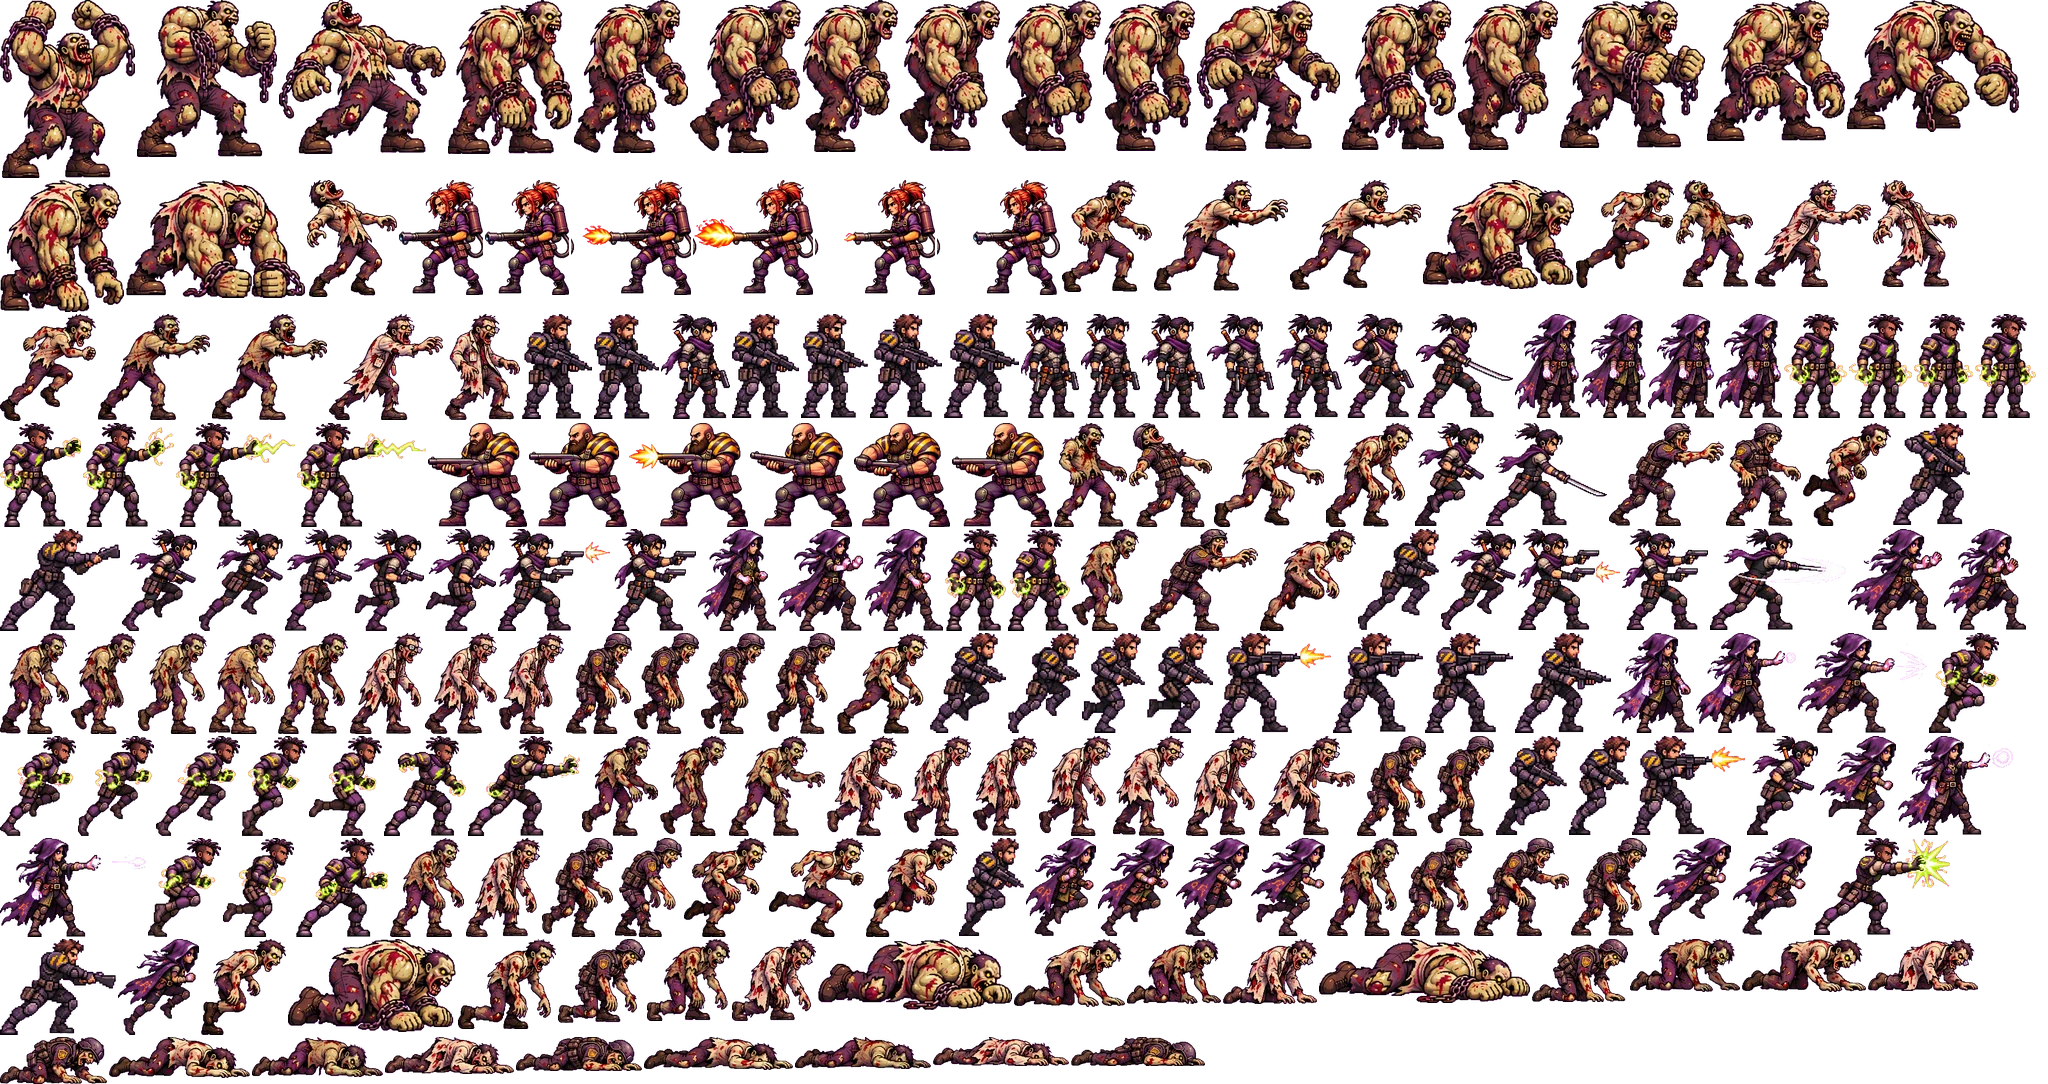
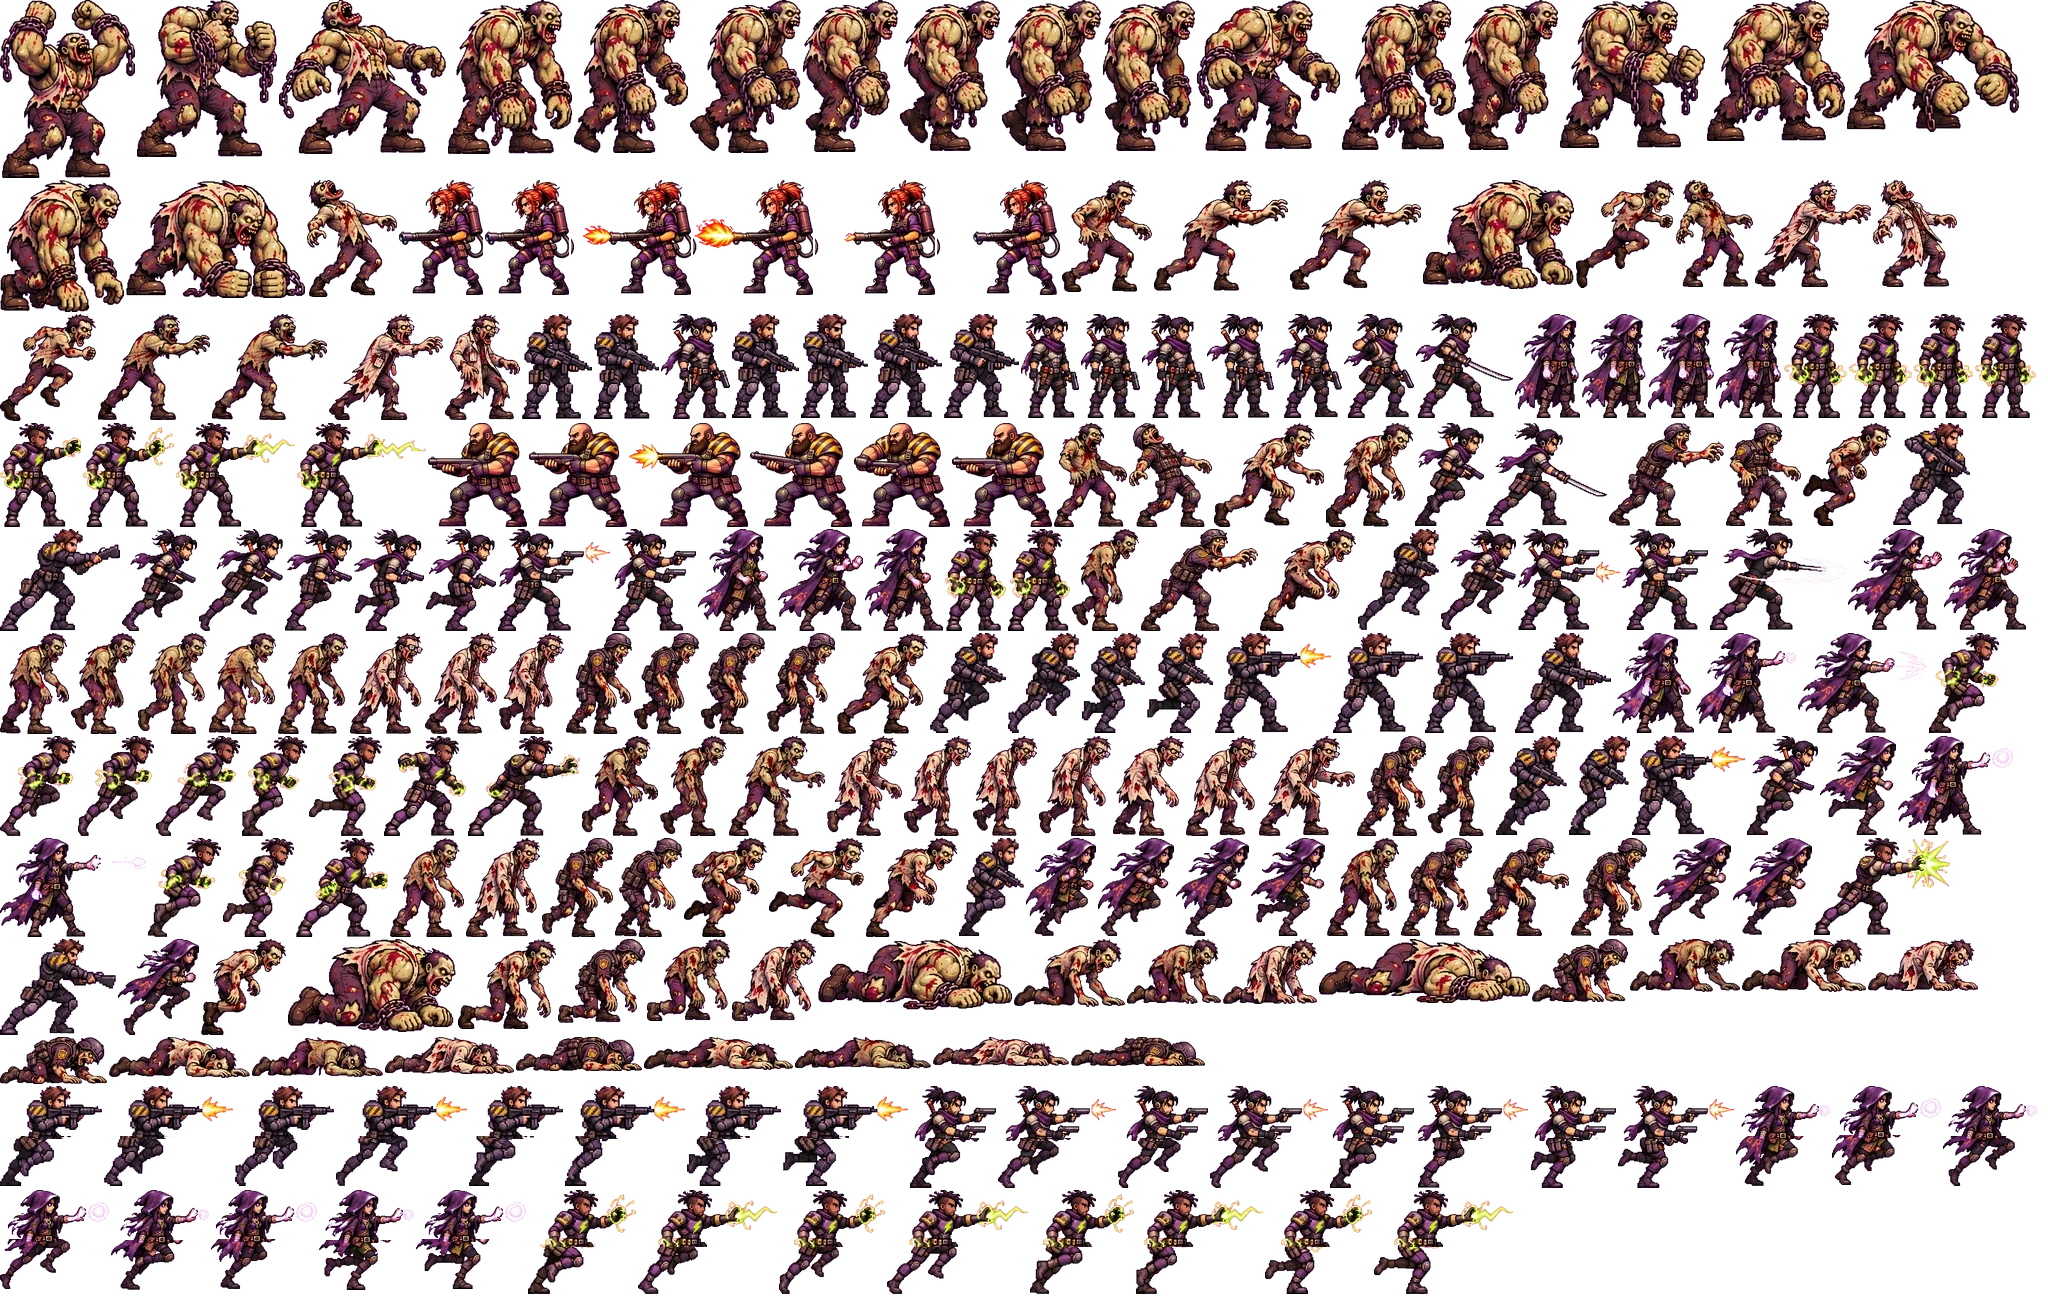
Run-and-gun: baked rshoot frames (run legs + shoot torso joined at belt)
Claude-Session: https://claude.ai/code/session_011TPi5fyk4GLuTR427GHKeK

diff --git a/game.js b/game.js
@@ -1332,9 +1332,9 @@ addEventListener('keyup',e=>{if(state!=='side'||!R.side.keys)return;const S=R.si
 
 /* ---------- drawing ---------- */
 const SH=95;
-const SIDEM={"cmd": {"idle": [[522, 314, 70, 105, 29.4, 35.1], [732, 314, 67, 104, 27.7, 31.6], [594, 314, 65, 105, 27.2, 29.3], [801, 314, 67, 104, 26.9, 29.9]], "run": [[1496, 736, 71, 99, 13.9, 48.4], [930, 633, 76, 100, 18.8, 52.7], [1008, 633, 72, 100, 7.3, 56.6], [1358, 529, 81, 101, 30.3, 65.3], [959, 838, 65, 98, 9.8, 44.9], [1569, 736, 61, 99, 10.5, 46.0], [1082, 633, 63, 100, 16.4, 43.6], [1147, 633, 66, 100, 33.3, 44.4]], "shoot": [[1215, 633, 116, 100, 36.0, 41.4], [1333, 633, 90, 100, 36.0, 42.2], [1632, 736, 113, 99, 35.7, 40.1], [1425, 633, 88, 100, 35.0, 38.6]], "melee": [[870, 314, 72, 104, 30.8, 37.4], [1893, 423, 77, 102, 34.5, 48.7], [0, 529, 120, 102, 37.2, 66.4], [0, 939, 116, 96, 37.0, 67.4], [1515, 633, 96, 100, 34.0, 53.3], [944, 314, 75, 104, 31.8, 38.7]]}, "rook": {"idle": [[1021, 314, 58, 104, 30.0, 26.2], [1081, 314, 59, 104, 30.0, 26.8], [1142, 314, 63, 104, 34.1, 30.6], [1207, 314, 67, 104, 38.5, 34.6]], "run": [[1415, 423, 69, 103, 12.1, 45.2], [122, 529, 75, 102, 20.1, 52.0], [1441, 529, 75, 101, 7.3, 52.5], [199, 529, 84, 102, 7.5, 59.9], [1747, 736, 71, 99, 10.2, 47.7], [285, 529, 67, 102, 10.4, 42.6], [354, 529, 70, 102, 22.0, 42.5], [426, 529, 70, 102, 30.0, 43.6]], "shoot": [[498, 529, 112, 102, 36.0, 33.5], [612, 529, 84, 102, 35.3, 31.5], [1518, 529, 102, 101, 35.6, 27.4], [1622, 529, 86, 101, 39.7, 29.9]], "melee": [[1276, 314, 66, 104, 34.8, 34.3], [1344, 314, 70, 104, 34.1, 35.8], [1416, 314, 97, 104, 39.4, 38.5], [1710, 529, 136, 101, 41.1, 59.8], [1486, 423, 121, 103, 40.1, 52.5], [661, 314, 69, 105, 38.2, 34.0]]}, "hex": {"idle": [[1515, 314, 65, 104, 33.6, 43.0], [1582, 314, 64, 104, 33.9, 42.6], [1648, 314, 66, 104, 32.7, 43.8], [1716, 314, 66, 104, 34.1, 43.4]], "run": [[1026, 838, 70, 98, 21.8, 51.5], [1098, 838, 76, 98, 21.0, 56.8], [118, 939, 81, 96, 12.1, 61.9], [1649, 838, 82, 97, 6.5, 61.8], [1733, 838, 79, 97, 19.1, 59.9], [1176, 838, 73, 98, 19.1, 54.3], [1251, 838, 74, 98, 26.6, 55.4], [1820, 736, 76, 99, 46.4, 56.9]], "shoot": [[1613, 633, 81, 100, 44.7, 46.7], [1696, 633, 100, 100, 41.1, 45.8], [1898, 736, 115, 99, 41.8, 49.7], [0, 838, 146, 99, 43.1, 49.9]], "melee": [[698, 529, 78, 102, 42.3, 46.1], [778, 529, 85, 102, 42.3, 52.7], [1848, 529, 94, 101, 53.7, 56.1], [1798, 633, 129, 100, 53.2, 54.1], [1944, 529, 82, 101, 48.9, 48.6], [865, 529, 78, 102, 41.4, 42.4]]}, "volt": {"idle": [[1784, 314, 63, 104, 32.4, 37.1], [1849, 314, 63, 104, 32.9, 37.1], [1914, 314, 59, 104, 29.5, 33.6], [1975, 314, 61, 104, 30.7, 34.1]], "run": [[1929, 633, 70, 100, 13.3, 53.0], [0, 736, 76, 100, 9.9, 59.8], [78, 736, 76, 100, 6.8, 60.2], [156, 736, 84, 100, 8.2, 67.8], [148, 838, 73, 99, 9.2, 55.6], [242, 736, 65, 100, 10.2, 48.4], [223, 838, 71, 99, 32.2, 54.7], [309, 736, 73, 100, 42.3, 55.6]], "shoot": [[0, 423, 81, 104, 34.6, 37.5], [83, 423, 91, 104, 34.1, 43.0], [176, 423, 119, 104, 34.3, 42.6], [297, 423, 129, 104, 34.3, 39.1]], "melee": [[945, 529, 61, 102, 28.5, 36.1], [384, 736, 82, 100, 34.8, 58.6], [468, 736, 112, 100, 37.2, 67.7], [1814, 838, 136, 97, 38.0, 84.1], [296, 838, 92, 99, 36.8, 61.5], [1008, 529, 62, 102, 29.7, 36.7]]}, "bb": {"bruno": [[428, 423, 99, 104, 54.8, 58.1], [529, 423, 98, 104, 53.5, 56.6], [629, 423, 119, 104, 75.2, 78.2], [750, 423, 102, 104, 57.6, 58.7], [854, 423, 96, 104, 51.8, 50.7], [952, 423, 100, 104, 55.8, 58.4]], "blaze": [[399, 180, 84, 115, 48.5, 54.9], [485, 180, 84, 115, 48.5, 55.0], [571, 180, 120, 115, 84.6, 91.1], [693, 180, 120, 115, 85.3, 91.6], [815, 180, 120, 115, 84.8, 91.4], [937, 180, 123, 115, 84.8, 91.5]]}, "grunt": {"walk": [[390, 838, 74, 99, 31.2, 54.8], [0, 633, 69, 101, 26.6, 51.6], [582, 736, 76, 100, 28.1, 53.9], [71, 633, 65, 101, 24.9, 49.1], [660, 736, 67, 100, 28.6, 51.4], [1072, 529, 67, 102, 25.6, 51.0], [138, 633, 69, 101, 29.4, 53.4], [209, 633, 67, 101, 24.1, 52.1]], "attack": [[278, 633, 70, 101, 29.6, 54.1], [729, 736, 96, 100, 35.2, 61.8], [98, 314, 112, 106, 39.2, 68.8], [212, 314, 115, 106, 36.9, 70.6]], "hit": [[1054, 423, 73, 104, 35.2, 36.5], [1676, 180, 77, 107, 39.9, 21.6]], "death": [[1327, 838, 72, 98, 31.4, 56.8], [647, 939, 83, 82, 39.2, 64.1], [1127, 939, 94, 65, 47.5, 71.4], [1630, 939, 110, 53, 55.0, 71.9], [252, 1037, 131, 40, 65.6, 67.6], [795, 1037, 136, 32, 68.1, 70.6]]}, "sci": {"walk": [[350, 633, 73, 101, 30.4, 57.9], [425, 633, 72, 101, 28.4, 56.9], [827, 736, 75, 100, 27.2, 55.4], [499, 633, 65, 101, 23.5, 51.0], [904, 736, 67, 100, 28.4, 52.8], [973, 736, 64, 100, 24.0, 50.0], [1039, 736, 72, 100, 28.7, 55.5], [1113, 736, 71, 100, 26.0, 55.5]], "attack": [[1186, 736, 71, 100, 29.9, 56.0], [1259, 736, 96, 100, 35.0, 65.6], [329, 314, 114, 106, 39.2, 71.5], [1755, 180, 116, 107, 36.8, 68.6]], "hit": [[445, 314, 75, 106, 34.8, 40.7], [1873, 180, 84, 107, 42.9, 23.6]], "death": [[466, 838, 74, 99, 30.9, 59.4], [732, 939, 84, 82, 39.0, 64.4], [1223, 939, 94, 65, 47.3, 74.5], [1868, 939, 110, 52, 55.1, 78.7], [385, 1037, 129, 37, 64.7, 65.3], [933, 1037, 136, 29, 68.1, 68.9]]}, "sol": {"walk": [[1357, 736, 69, 100, 30.2, 55.4], [566, 633, 66, 101, 25.9, 52.0], [542, 838, 71, 99, 27.1, 56.4], [634, 633, 65, 101, 25.2, 50.4], [1428, 736, 66, 100, 28.3, 51.2], [701, 633, 64, 101, 22.8, 49.1], [767, 633, 68, 101, 29.2, 53.6], [615, 838, 67, 99, 23.8, 52.0]], "attack": [[1401, 838, 71, 98, 29.7, 56.3], [1474, 838, 95, 98, 34.2, 64.7], [1141, 529, 117, 102, 39.4, 73.3], [1609, 423, 115, 103, 36.3, 69.0]], "hit": [[1726, 423, 75, 103, 33.3, 41.9], [1129, 423, 83, 104, 41.6, 18.4]], "death": [[1571, 838, 76, 98, 31.1, 60.5], [558, 939, 87, 84, 39.0, 69.1], [1532, 939, 96, 63, 46.8, 74.9], [0, 1037, 107, 47, 53.7, 70.5], [516, 1037, 126, 34, 63.2, 72.2], [1071, 1037, 134, 29, 67.2, 74.3]]}, "runner": {"walk": [[684, 838, 83, 99, 30.1, 63.9], [0, 314, 96, 107, 30.1, 74.8], [1576, 180, 98, 108, 6.5, 75.7], [769, 838, 95, 99, 54.0, 75.9], [1803, 423, 88, 103, 21.0, 70.6], [866, 838, 91, 99, 11.8, 70.0], [1260, 529, 96, 102, 12.1, 76.8], [201, 939, 85, 96, 11.6, 65.0]], "attack": [[837, 633, 91, 101, 36.3, 73.7], [1214, 423, 110, 104, 38.2, 84.4], [1290, 180, 131, 110, 39.0, 84.6], [1154, 180, 134, 111, 42.7, 83.8]], "hit": [[1062, 180, 90, 112, 37.9, 58.5], [307, 180, 90, 117, 35.5, 18.8]], "death": [[1326, 423, 87, 104, 31.5, 68.1], [458, 939, 98, 90, 46.0, 81.4], [1014, 939, 111, 68, 55.9, 85.3], [1742, 939, 124, 53, 62.1, 82.3], [109, 1037, 141, 41, 70.7, 69.1], [644, 1037, 149, 33, 74.7, 78.0]]}, "brute": {"walk": [[1342, 0, 114, 150, 51.2, 72.3], [574, 0, 114, 153, 40.9, 70.1], [690, 0, 111, 153, 40.5, 75.2], [803, 0, 95, 152, 30.2, 59.6], [1458, 0, 100, 150, 37.3, 63.9], [900, 0, 100, 151, 39.5, 63.1], [1002, 0, 99, 151, 35.9, 61.9], [1103, 0, 92, 151, 34.8, 55.8]], "attack": [[1707, 0, 138, 141, 59.7, 80.0], [1560, 0, 145, 148, 60.8, 74.2], [137, 0, 140, 157, 62.9, 68.6], [0, 0, 135, 178, 56.5, 68.5], [1847, 0, 172, 132, 84.6, 84.7], [126, 180, 179, 118, 89.9, 95.4]], "hit": [[1197, 0, 143, 151, 61.8, 77.4], [279, 0, 167, 154, 83.5, 62.0]], "death": [[448, 0, 124, 154, 53.3, 75.7], [0, 180, 124, 132, 62.2, 76.7], [1423, 180, 151, 109, 75.4, 94.6], [288, 939, 168, 93, 83.2, 101.2], [818, 939, 194, 71, 97.4, 106.6], [1319, 939, 211, 64, 105.6, 108.8]]}},SIDEIMG=new Image();let sideReady=false;SIDEIMG.onload=()=>{sideReady=true;};
+const SIDEM={"cmd":{"idle":[[522,314,70,105,29.4,35.1],[732,314,67,104,27.7,31.6],[594,314,65,105,27.2,29.3],[801,314,67,104,26.9,29.9]],"run":[[1496,736,71,99,13.9,48.4],[930,633,76,100,18.8,52.7],[1008,633,72,100,7.3,56.6],[1358,529,81,101,30.3,65.3],[959,838,65,98,9.8,44.9],[1569,736,61,99,10.5,46.0],[1082,633,63,100,16.4,43.6],[1147,633,66,100,33.3,44.4]],"shoot":[[1215,633,116,100,36.0,41.4],[1333,633,90,100,36.0,42.2],[1632,736,113,99,35.7,40.1],[1425,633,88,100,35.0,38.6]],"melee":[[870,314,72,104,30.8,37.4],[1893,423,77,102,34.5,48.7],[0,529,120,102,37.2,66.4],[0,939,116,96,37.0,67.4],[1515,633,96,100,34.0,53.3],[944,314,75,104,31.8,38.7]],"rshoot":[[0,1086,102,100,14,51.0,34.0,0],[104,1086,129,100,19,71.5,30.0,0],[235,1086,99,100,7,48.0,38.0,0],[336,1086,131,100,30,73.5,21.0,0],[469,1086,94,100,10,43.0,30.0,0],[565,1086,120,100,10,62.5,30.0,0],[687,1086,94,100,16,43.0,24.0,0],[783,1086,125,100,33,67.5,12.0,0]]},"rook":{"idle":[[1021,314,58,104,30.0,26.2],[1081,314,59,104,30.0,26.8],[1142,314,63,104,34.1,30.6],[1207,314,67,104,38.5,34.6]],"run":[[1415,423,69,103,12.1,45.2],[122,529,75,102,20.1,52.0],[1441,529,75,101,7.3,52.5],[199,529,84,102,7.5,59.9],[1747,736,71,99,10.2,47.7],[285,529,67,102,10.4,42.6],[354,529,70,102,22.0,42.5],[426,529,70,102,30.0,43.6]],"shoot":[[498,529,112,102,36.0,33.5],[612,529,84,102,35.3,31.5],[1518,529,102,101,35.6,27.4],[1622,529,86,101,39.7,29.9]],"melee":[[1276,314,66,104,34.8,34.3],[1344,314,70,104,34.1,35.8],[1416,314,97,104,39.4,38.5],[1710,529,136,101,41.1,59.8],[1486,423,121,103,40.1,52.5],[661,314,69,105,38.2,34.0]],"rshoot":[[910,1086,86,102,12,33.5,25.299999999999997,0],[998,1086,118,102,20,58.5,22.0,0],[1118,1086,90,102,7,37.5,34.30000000000001,0],[1210,1086,118,102,8,58.5,34.0,0],[1330,1086,84,102,10,31.5,25.299999999999997,0],[1416,1086,112,102,12,52.5,24.0,0],[1530,1086,86,102,22,33.5,15.299999999999997,0],[1618,1086,116,102,30,56.5,10.0,0]]},"hex":{"idle":[[1515,314,65,104,33.6,43.0],[1582,314,64,104,33.9,42.6],[1648,314,66,104,32.7,43.8],[1716,314,66,104,34.1,43.4]],"run":[[1026,838,70,98,21.8,51.5],[1098,838,76,98,21.0,56.8],[118,939,81,96,12.1,61.9],[1649,838,82,97,6.5,61.8],[1733,838,79,97,19.1,59.9],[1176,838,73,98,19.1,54.3],[1251,838,74,98,26.6,55.4],[1820,736,76,99,46.4,56.9]],"shoot":[[1613,633,81,100,44.7,46.7],[1696,633,100,100,41.1,45.8],[1898,736,115,99,41.8,49.7],[0,838,146,99,43.1,49.9]],"melee":[[698,529,78,102,42.3,46.1],[778,529,85,102,42.3,52.7],[1848,529,94,101,53.7,56.1],[1798,633,129,100,53.2,54.1],[1944,529,82,101,48.9,48.6],[865,529,78,102,41.4,42.4]],"rshoot":[[1736,1086,94,100,22,38.0,13.099999999999994,0],[1832,1086,109,99,21,62.5,14.799999999999997,0],[1943,1086,94,100,12,38.0,23.099999999999994,0],[0,1190,109,99,6,62.5,29.80000000000001,0],[111,1190,98,100,19,42.0,20.099999999999994,0],[211,1190,106,99,19,59.5,13.799999999999997,0],[319,1190,95,100,27,39.0,9.099999999999994,0],[416,1190,110,99,46,63.5,-9.200000000000003,0]]},"volt":{"idle":[[1784,314,63,104,32.4,37.1],[1849,314,63,104,32.9,37.1],[1914,314,59,104,29.5,33.6],[1975,314,61,104,30.7,34.1]],"run":[[1929,633,70,100,13.3,53.0],[0,736,76,100,9.9,59.8],[78,736,76,100,6.8,60.2],[156,736,84,100,8.2,67.8],[148,838,73,99,9.2,55.6],[242,736,65,100,10.2,48.4],[223,838,71,99,32.2,54.7],[309,736,73,100,42.3,55.6]],"shoot":[[0,423,81,104,34.6,37.5],[83,423,91,104,34.1,43.0],[176,423,119,104,34.3,42.6],[297,423,129,104,34.3,39.1]],"melee":[[945,529,61,102,28.5,36.1],[384,736,82,100,34.8,58.6],[468,736,112,100,37.2,67.7],[1814,838,136,97,38.0,84.1],[296,838,92,99,36.8,61.5],[1008,529,62,102,29.7,36.7]],"rshoot":[[528,1190,108,104,13,71.0,38.099999999999994,0],[638,1190,139,104,10,77.5,44.30000000000001,0],[779,1190,106,104,7,69.0,42.099999999999994,0],[887,1190,141,104,8,79.5,48.30000000000001,0],[1030,1190,104,104,9,67.0,38.099999999999994,0],[1136,1190,127,104,10,65.5,32.30000000000001,0],[1265,1190,107,104,32,70.0,18.099999999999994,0],[1374,1190,139,104,42,77.5,12.299999999999997,0]]},"bb":{"bruno":[[428,423,99,104,54.8,58.1],[529,423,98,104,53.5,56.6],[629,423,119,104,75.2,78.2],[750,423,102,104,57.6,58.7],[854,423,96,104,51.8,50.7],[952,423,100,104,55.8,58.4]],"blaze":[[399,180,84,115,48.5,54.9],[485,180,84,115,48.5,55.0],[571,180,120,115,84.6,91.1],[693,180,120,115,85.3,91.6],[815,180,120,115,84.8,91.4],[937,180,123,115,84.8,91.5]]},"grunt":{"walk":[[390,838,74,99,31.2,54.8],[0,633,69,101,26.6,51.6],[582,736,76,100,28.1,53.9],[71,633,65,101,24.9,49.1],[660,736,67,100,28.6,51.4],[1072,529,67,102,25.6,51.0],[138,633,69,101,29.4,53.4],[209,633,67,101,24.1,52.1]],"attack":[[278,633,70,101,29.6,54.1],[729,736,96,100,35.2,61.8],[98,314,112,106,39.2,68.8],[212,314,115,106,36.9,70.6]],"hit":[[1054,423,73,104,35.2,36.5],[1676,180,77,107,39.9,21.6]],"death":[[1327,838,72,98,31.4,56.8],[647,939,83,82,39.2,64.1],[1127,939,94,65,47.5,71.4],[1630,939,110,53,55.0,71.9],[252,1037,131,40,65.6,67.6],[795,1037,136,32,68.1,70.6]]},"sci":{"walk":[[350,633,73,101,30.4,57.9],[425,633,72,101,28.4,56.9],[827,736,75,100,27.2,55.4],[499,633,65,101,23.5,51.0],[904,736,67,100,28.4,52.8],[973,736,64,100,24.0,50.0],[1039,736,72,100,28.7,55.5],[1113,736,71,100,26.0,55.5]],"attack":[[1186,736,71,100,29.9,56.0],[1259,736,96,100,35.0,65.6],[329,314,114,106,39.2,71.5],[1755,180,116,107,36.8,68.6]],"hit":[[445,314,75,106,34.8,40.7],[1873,180,84,107,42.9,23.6]],"death":[[466,838,74,99,30.9,59.4],[732,939,84,82,39.0,64.4],[1223,939,94,65,47.3,74.5],[1868,939,110,52,55.1,78.7],[385,1037,129,37,64.7,65.3],[933,1037,136,29,68.1,68.9]]},"sol":{"walk":[[1357,736,69,100,30.2,55.4],[566,633,66,101,25.9,52.0],[542,838,71,99,27.1,56.4],[634,633,65,101,25.2,50.4],[1428,736,66,100,28.3,51.2],[701,633,64,101,22.8,49.1],[767,633,68,101,29.2,53.6],[615,838,67,99,23.8,52.0]],"attack":[[1401,838,71,98,29.7,56.3],[1474,838,95,98,34.2,64.7],[1141,529,117,102,39.4,73.3],[1609,423,115,103,36.3,69.0]],"hit":[[1726,423,75,103,33.3,41.9],[1129,423,83,104,41.6,18.4]],"death":[[1571,838,76,98,31.1,60.5],[558,939,87,84,39.0,69.1],[1532,939,96,63,46.8,74.9],[0,1037,107,47,53.7,70.5],[516,1037,126,34,63.2,72.2],[1071,1037,134,29,67.2,74.3]]},"runner":{"walk":[[684,838,83,99,30.1,63.9],[0,314,96,107,30.1,74.8],[1576,180,98,108,6.5,75.7],[769,838,95,99,54.0,75.9],[1803,423,88,103,21.0,70.6],[866,838,91,99,11.8,70.0],[1260,529,96,102,12.1,76.8],[201,939,85,96,11.6,65.0]],"attack":[[837,633,91,101,36.3,73.7],[1214,423,110,104,38.2,84.4],[1290,180,131,110,39.0,84.6],[1154,180,134,111,42.7,83.8]],"hit":[[1062,180,90,112,37.9,58.5],[307,180,90,117,35.5,18.8]],"death":[[1326,423,87,104,31.5,68.1],[458,939,98,90,46.0,81.4],[1014,939,111,68,55.9,85.3],[1742,939,124,53,62.1,82.3],[109,1037,141,41,70.7,69.1],[644,1037,149,33,74.7,78.0]]},"brute":{"walk":[[1342,0,114,150,51.2,72.3],[574,0,114,153,40.9,70.1],[690,0,111,153,40.5,75.2],[803,0,95,152,30.2,59.6],[1458,0,100,150,37.3,63.9],[900,0,100,151,39.5,63.1],[1002,0,99,151,35.9,61.9],[1103,0,92,151,34.8,55.8]],"attack":[[1707,0,138,141,59.7,80.0],[1560,0,145,148,60.8,74.2],[137,0,140,157,62.9,68.6],[0,0,135,178,56.5,68.5],[1847,0,172,132,84.6,84.7],[126,180,179,118,89.9,95.4]],"hit":[[1197,0,143,151,61.8,77.4],[279,0,167,154,83.5,62.0]],"death":[[448,0,124,154,53.3,75.7],[0,180,124,132,62.2,76.7],[1423,180,151,109,75.4,94.6],[288,939,168,93,83.2,101.2],[818,939,194,71,97.4,106.6],[1319,939,211,64,105.6,108.8]]}},SIDEIMG=new Image();let sideReady=false;SIDEIMG.onload=()=>{sideReady=true;};
 const INPM={"labOpen": [0, 0, 148, 144], "debris": [150, 0, 227, 142], "exit": [379, 0, 111, 141], "lab": [492, 0, 139, 141], "elev": [633, 0, 147, 140], "dblOpen": [782, 0, 151, 111], "fire": [935, 0, 124, 111], "dbl": [1061, 0, 135, 110], "bar": [1198, 0, 245, 107], "bench": [1445, 0, 204, 97]},INP=new Image(),INW=new Image(),INF=new Image();let inReady=0;[INP,INW,INF].forEach(i=>i.onload=()=>{inReady++;});
-function sideLoad(){if(SIDEIMG.src||!'assets/side.webp?v=8f9557c054')return;SIDEIMG.src='assets/side.webp?v=8f9557c054';INP.src='assets/inprops.webp?v=d6d2aabdb1';INW.src='assets/inwall.webp?v=1f8e087191';INF.src='assets/infloor.webp?v=59231b8782';}
+function sideLoad(){if(SIDEIMG.src||!'assets/side.webp?v=354b89819c')return;SIDEIMG.src='assets/side.webp?v=354b89819c';INP.src='assets/inprops.webp?v=d6d2aabdb1';INW.src='assets/inwall.webp?v=1f8e087191';INF.src='assets/infloor.webp?v=59231b8782';}
 const SK=122/104;
 function sd(id,row,i,x,flip,alpha){const L=SIDEM[id]&&SIDEM[id][row];if(!sideReady||!L)return false;const f=L[((i%L.length)+L.length)%L.length],w=f[2]*SK,h=f[3]*SK;
   ctx.save();ctx.globalAlpha=alpha==null?1:alpha;ctx.translate(x,GY+2);if(flip)ctx.scale(-1,1);ctx.drawImage(SIDEIMG,f[0],f[1],f[2],f[3],-f[4]*SK,-h,w,h);ctx.restore();return true;}
@@ -1418,10 +1418,7 @@ function drawSide(){const S=R.side;ctx.save();if(R.shake>0)ctx.translate((Math.r
   const id=S.active,M=META[id],px=S.x-c;
   ctx.fillStyle='rgba(0,0,0,.4)';ctx.beginPath();ctx.ellipse(px,GY,24,6,0,0,6.283);ctx.fill();
   const pa=S.entering?Math.max(0,S.exitT/.9):(S.flash>0?.6:1);
-  if(NEW&&S.anT>0&&S.mv&&!(S.melA>0)&&SIDEM[id]){const RN=SIDEM[id].run,SH_=SIDEM[id].shoot,fi=Math.floor(t*12),fr_=RN[fi%RN.length],si=fi%2?1:3,fs=SH_[si],fl=S.face<0?-1:1;
-    const off=((fr_[5]-fr_[4])-(fs[5]-fs[4]))*SK*fl,dy=(fs[3]-fr_[3])*SK;S.rgOff=off;const waist=GY+2-fr_[3]*.5*SK;
-    ctx.save();ctx.beginPath();ctx.rect(px-140,waist,280,200);ctx.clip();sd(id,'run',fi,px,S.face<0,pa);ctx.restore();
-    ctx.save();ctx.beginPath();ctx.rect(px-160,0,320,waist+3);ctx.clip();ctx.translate(0,dy);sd(id,'shoot',si,px+off,S.face<0,pa);ctx.restore();}
+  if(NEW&&S.anT>0&&S.mv&&!(S.melA>0)&&SIDEM[id]&&SIDEM[id].rshoot){const RS=SIDEM[id].rshoot,fi=Math.floor(t*12),f=RS[fi%RS.length];S.rgOff=(f[6]||0)*SK*(S.face<0?-1:1);sd(id,'rshoot',fi,px,S.face<0,pa);}
   else if(NEW){const row=S.melA>0?'melee':S.anT>0?'shoot':S.mv?'run':'idle',fr=row==='melee'?Math.min(5,Math.floor((.35-S.melA)/.35*6)):row==='shoot'?Math.floor(t*12):row==='run'?Math.floor(t*12):Math.floor(t*6);sd(id,row,fr,px,S.face<0,pa);}
   else if(atlasReady&&M){let arr=M.idle,fr=Math.floor(t*6);if(S.melA>0&&id==='rook'&&M.slash){arr=M.slash;fr=Math.floor((.35-S.melA)*18);}else if(S.anT>0&&(M.wshoot||M.shoot)){arr=(S.mv&&M.wshoot)?M.wshoot:M.shoot;fr=Math.floor(t*14);}else if(S.mv)arr=M.run,fr=Math.floor(t*10);
     sideSprite(id,arr,fr,px,SH,S.flash>0?.6:1);}

diff --git a/index.html b/index.html
@@ -222,13 +222,13 @@ h3{font-size:12px;letter-spacing:.14em;text-transform:uppercase;color:var(--mute
   <div class="overlay" id="ov"></div>
 </div>
 
-<script>window.__VER='8c42b4d810';
+<script>window.__VER='55c2e76cd7';
 if('serviceWorker' in navigator){navigator.serviceWorker.register('sw.js').catch(()=>{});}
 // when the app comes back from the background, check for a newer version and reload if the player is on a menu
 document.addEventListener('visibilitychange',()=>{if(document.hidden)return;
   fetch('version.json?t='+Date.now(),{cache:'no-store'}).then(r=>r.json()).then(d=>{
     if(d.v&&d.v!==window.__VER&&window.__canReload&&window.__canReload())location.reload();}).catch(()=>{});});
 </script>
-<script src="game.js?v=8c42b4d810"></script>
+<script src="game.js?v=55c2e76cd7"></script>
 </body>
 </html>
